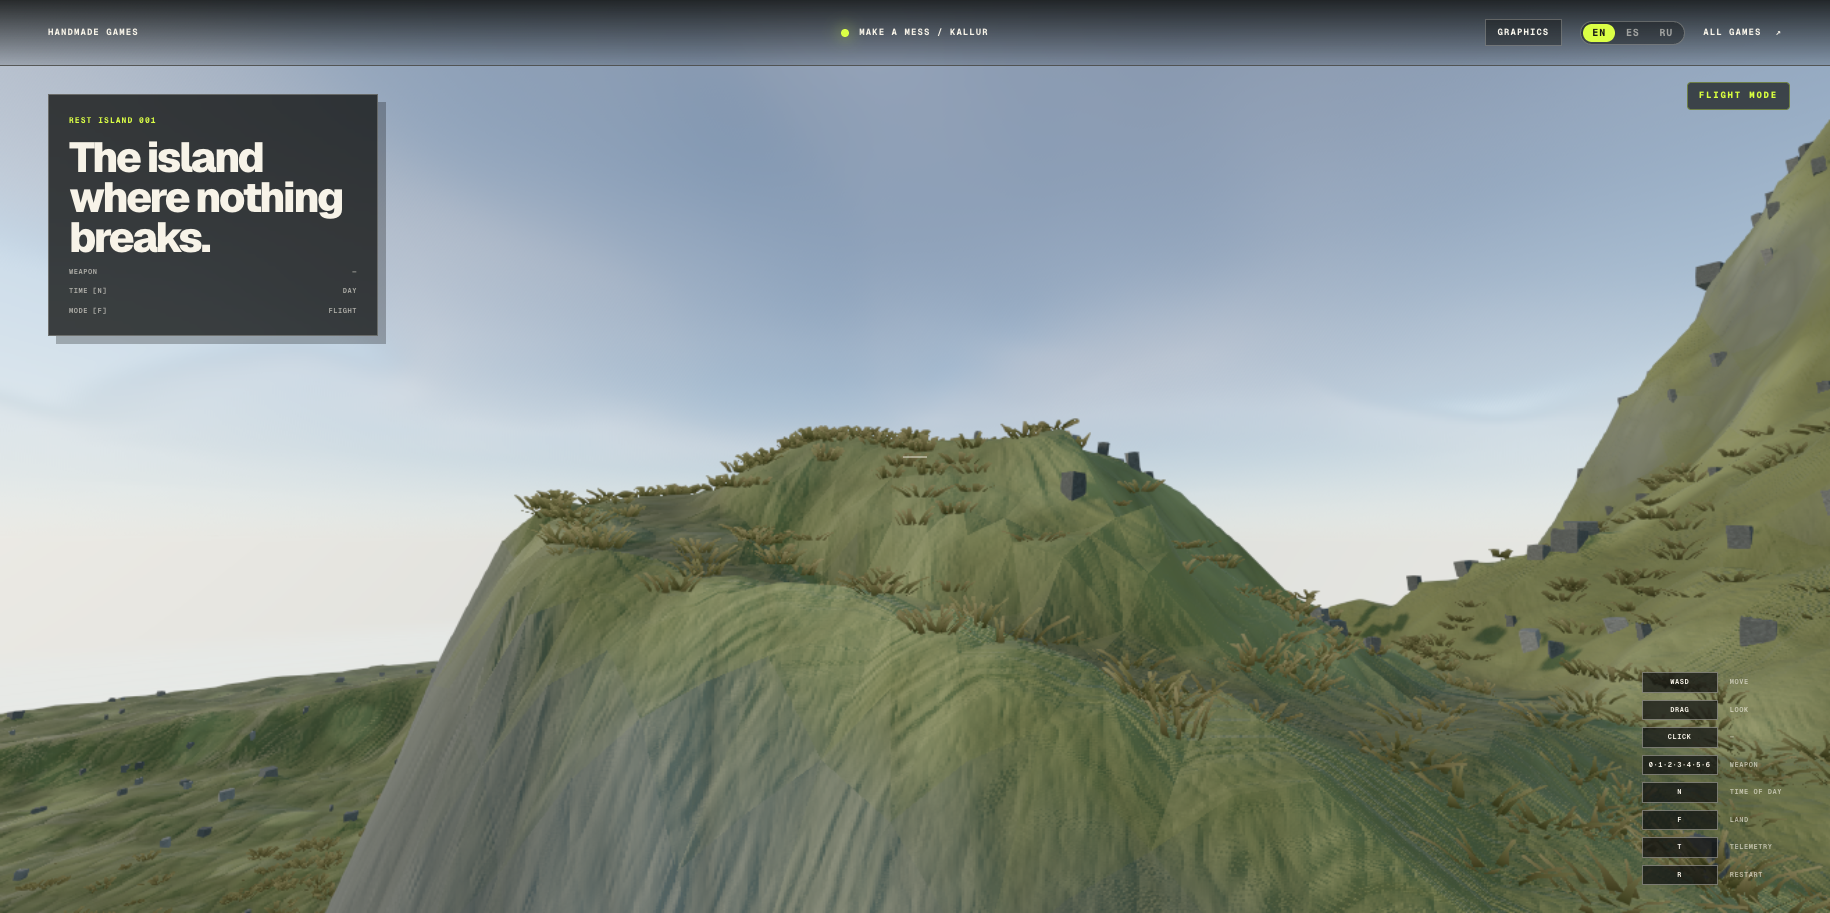
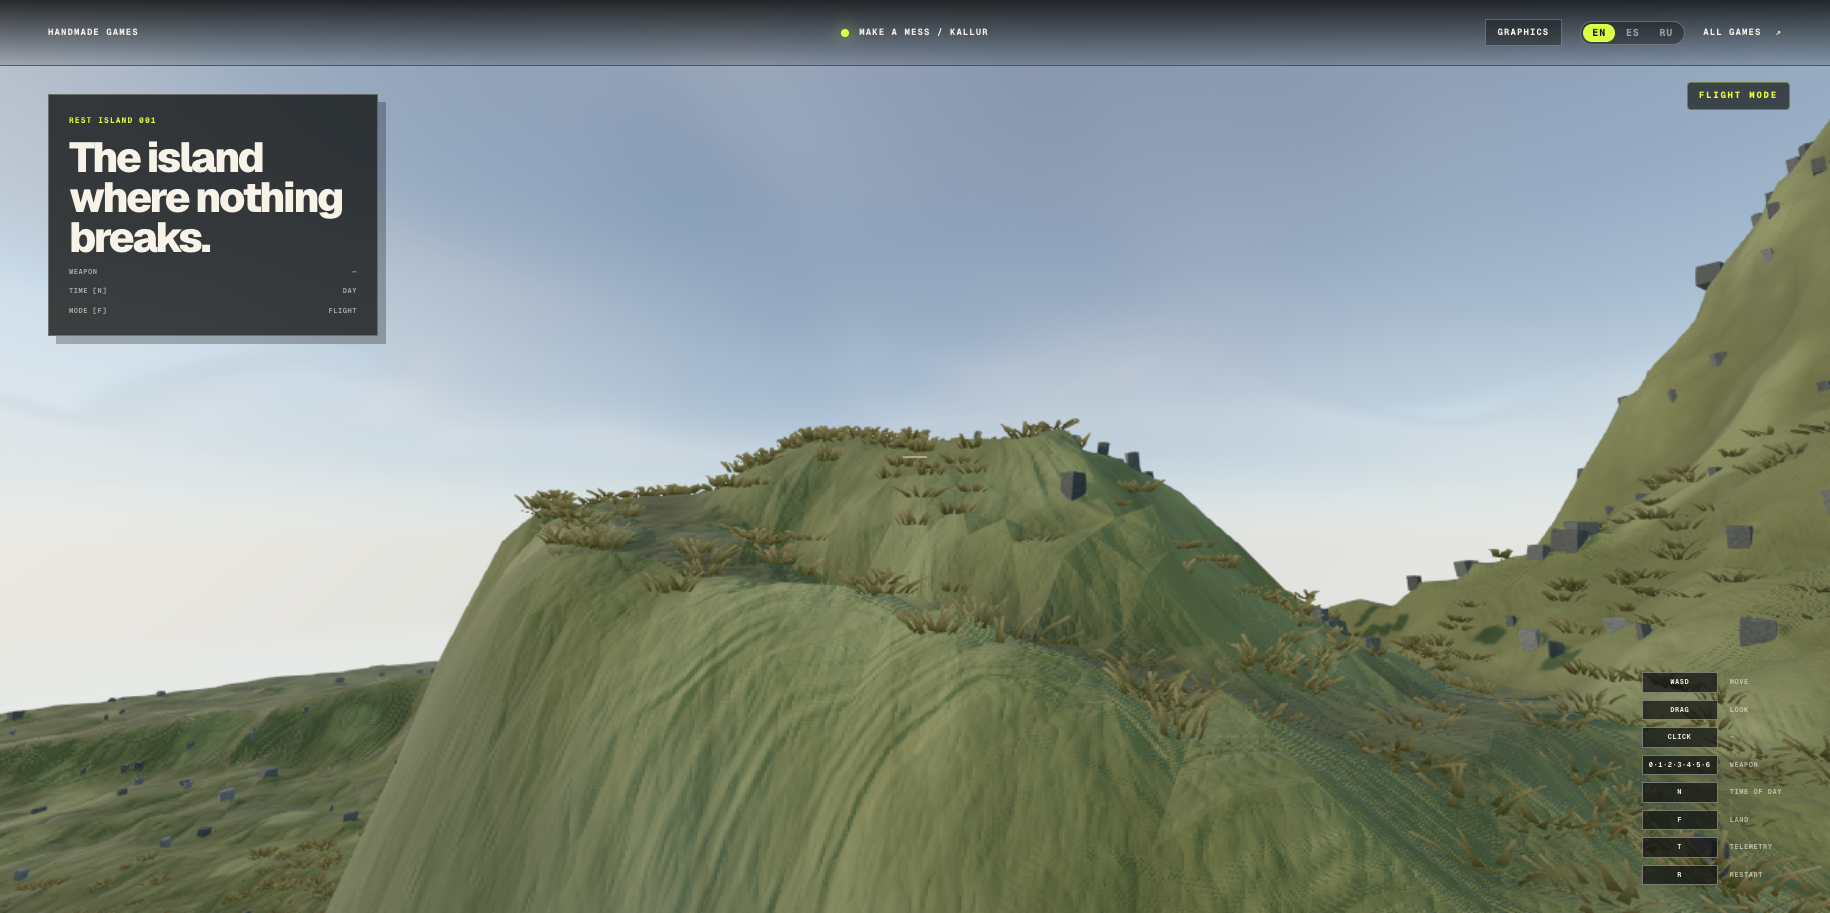
fix(kallur): turf holds green to the crags - the massif is one color family
The wall tone began at ~53 degrees and the rock tint at grade 1.35, so
the whole mountain greyed while the meadow stayed green - the exact
two-tone split Igor called out. Faroese turf bares only near-vertical:
wall tone now starts ~73 degrees, rock families at grade 1.9/3.2.

diff --git a/games/make-a-mess/src/game/materialTextures.ts b/games/make-a-mess/src/game/materialTextures.ts
@@ -2408,7 +2408,10 @@ if (kallurProfileOn > 0.5) {
   // the ridge coordinates swing to (along-the-wall, down-the-face) as the
   // surface turns vertical: the striation of the reference walls instead
   // of ground streaks smeared across a cliff.
-  float kallurWallness = 1.0 - smoothstep(0.25, 0.6, kallurUp.y);
+  // Faroese turf holds green to ~60 degrees; the wall tone begins only on
+  // truly near-vertical faces (~73+), otherwise the whole massif greyed
+  // while the meadow stayed green - the exact two-tone split Igor called.
+  float kallurWallness = 1.0 - smoothstep(0.12, 0.3, kallurUp.y);
   vec2 kallurWallTangent = vec2(-kallurDown.y, kallurDown.x);
   kallurAcrossAlong = mix(
     vec2(dot(kallurPoint, kallurWallTangent), dot(kallurPoint, kallurDown)),
@@ -2586,11 +2589,11 @@ vec3 materialSunDir = normalize(uMatSunDirection);
 float materialSunMu = max(dot(materialViewRay, materialSunDir), 0.0);
 float materialSunLobe = pow(materialSunMu, 5.0);
 float materialHorizonBoost = pow(1.0 - abs(materialViewRay.y), 2.0);
-float materialPathWeight = materialPathScatter * mix(1.0, 1.35, materialHorizonBoost);
+float materialPathWeight = materialPathScatter * mix(1.0, 1.22, materialHorizonBoost);
 // Bias the sky read toward the sun where the path carries scatter — spatial
 // air, not one cube tap at the pixel's view direction only.
 vec3 materialScatterRay = normalize(
-  mix(materialViewRay, materialSunDir, materialPathWeight * 0.32)
+  mix(materialViewRay, materialSunDir, materialPathWeight * 0.28)
 );
 // Read a broadened lobe rather than the sharpest mip: what in-scatters toward
 // the eye is spread by the phase function, so the solar disc belongs in this
@@ -2604,6 +2607,16 @@ float materialForwardScatter = materialPathWeight * materialSunLobe * uMatAirFor
 materialFogTint += uMatSunFogColour * materialForwardScatter;
 float materialDeckShaft = matCloudDeckGap(vMaterialCoordinate, materialSunDir);
 materialFogTint += uMatCloudLit * materialDeckShaft * uMatCloudShaftStrength;
+// Look hierarchy: far air quieter and cooler off-sun so midground is not the
+// same midtone as the near hold. Near stay clear via materialAirNear already.
+float materialOffSun = 1.0 - materialSunMu;
+float materialFarQuiet = mix(1.0, 0.74, materialAirNear * mix(0.55, 1.0, materialOffSun));
+vec3 materialCoolFar = mix(
+  vec3(1.0),
+  vec3(0.78, 0.86, 1.02),
+  materialAirNear * materialOffSun * 0.42
+);
+materialFogTint *= materialFarQuiet * materialCoolFar;
 #else
 // Anything shaded without the sky bake keeps the scene's own fog colour.
 vec3 materialFogTint = fogColor;

diff --git a/games/make-a-mess/src/game/kallurGroundTint.ts b/games/make-a-mess/src/game/kallurGroundTint.ts
@@ -105,8 +105,8 @@ export function kallurGroundTint(
   // stone. Faroese turf holds far steeper than a lowland lawn — the rock
   // families start only where the reference slopes actually bare (the
   // 1.05 start greyed every hillside two steps too early).
-  color = mix(color, ROCK_MID, smootherstep((gradient - 1.35) / 0.6));
-  color = mix(color, ROCK_DARK, smootherstep((gradient - 2.6) / 0.9));
+  color = mix(color, ROCK_MID, smootherstep((gradient - 1.9) / 0.7));
+  color = mix(color, ROCK_DARK, smootherstep((gradient - 3.2) / 1.0));
   // The trodden line owns its dirt.
   color = mix(color, PATH_DIRT, sample.pathWeight * 0.85);
 
